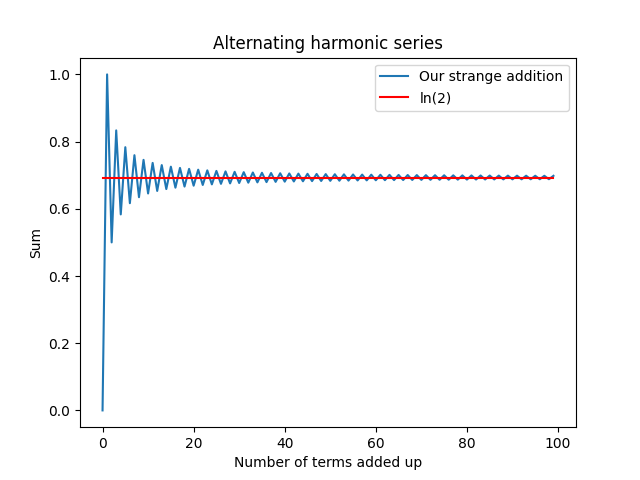
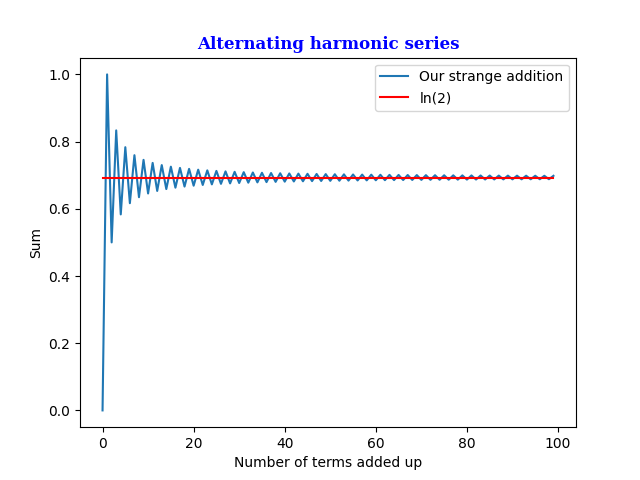
improve graph

Changed region(s): [[0.3125, 0.0625, 0.7188, 0.125]]

diff --git a/utils.py b/utils.py
@@ -24,7 +24,12 @@ def _get_alternating_series_graph_image(n: int = 100):
     plt.figure()
     plt.plot(x, y, label="Our strange addition")
     plt.plot(x, [log(2)] * n, c="r", label="ln(2)")
-    plt.title("""Alternating harmonic series""")
+    plt.title("""Alternating harmonic series""", fontdict={
+                "family": "serif",
+                "color": "blue",
+                "weight": "bold",
+                "size": 12,
+            })
     plt.xlabel("Number of terms added up")
     plt.ylabel("Sum")
     plt.legend()
@@ -163,8 +168,9 @@ def make_animation(series_values, new_sum):
     return fig
 
 
-# if __name__ == "__main__":
-#     # get_alternating_series_graph()
-#     a = np.ones(shape=3)
-#     print(a)
-#     print(np.cumsum(a))
+if __name__ == "__main__":
+    # get_alternating_series_graph()
+    # a = np.ones(shape=3)
+    # print(a)
+    # print(np.cumsum(a))
+    _get_alternating_series_graph_image()
